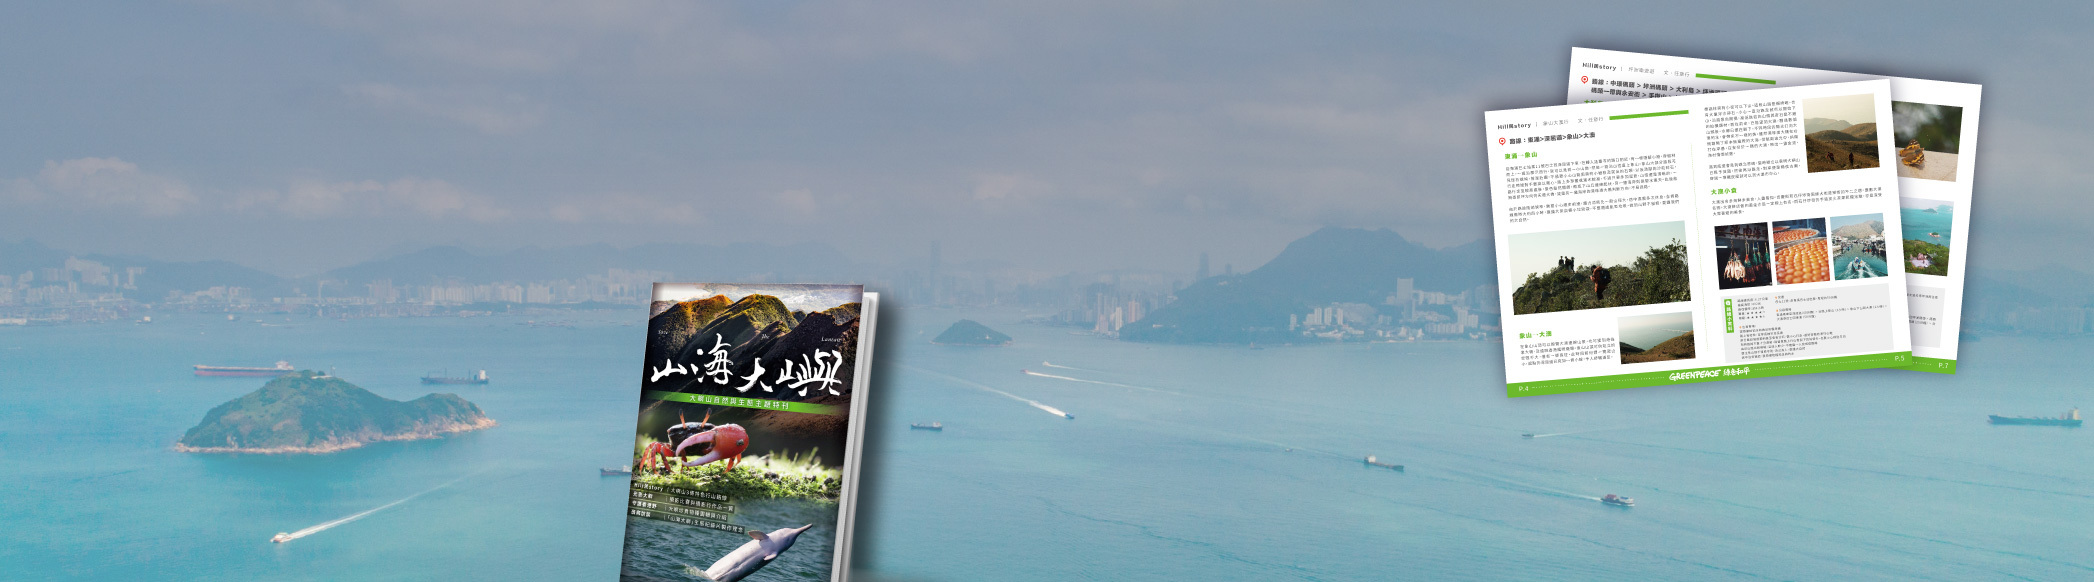
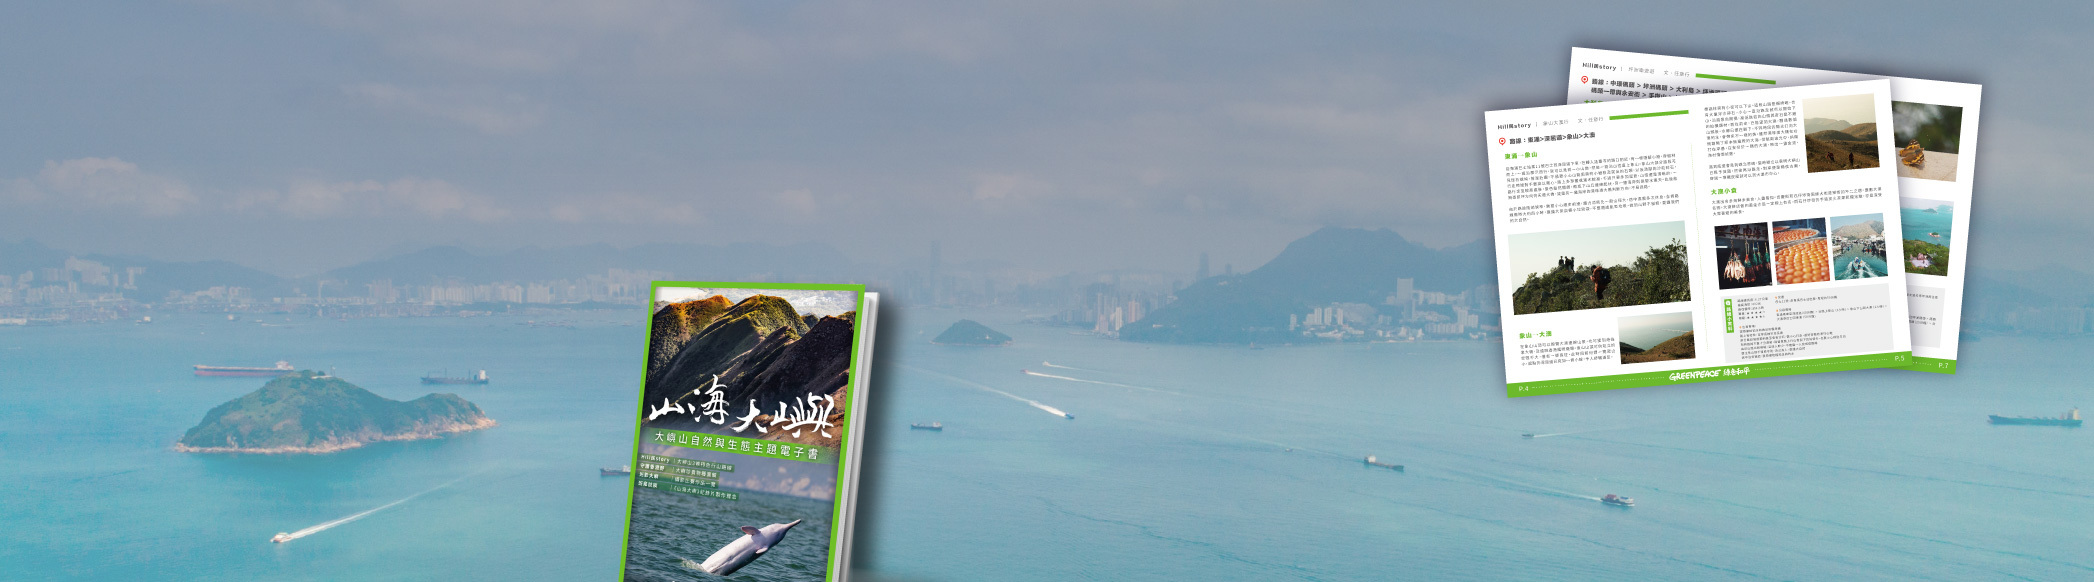
modify project: lantau-ebook and elm
1. update lantau-ebook pictures
2. update elm picture and content

Changed region(s): [[0.2794, 0.4639, 0.4346, 1.0]]

diff --git a/apps/hk/elm/Thankyou.js b/apps/hk/elm/Thankyou.js
@@ -6,7 +6,7 @@ import {
   paragraphProps,
 } from '@common/styles/components/contentStyle';
 
-import image01 from './images/eco-gif.gif';
+import image01 from './images/elm_desk_calendar.png';
 
 const Thankyou = ({ theme, signup }) => {
   const themeInterests = theme.interests;
@@ -62,12 +62,10 @@ const Thankyou = ({ theme, signup }) => {
         向香港自然環境伸出援手，捐助綠色和平守護大嶼工作。
       </Text>
 
-      <Heading {...headingProps}>
-        捐款守護香港自然環境，即送您一副「生態保衛隊」桌上遊戲！
-      </Heading>
+      <Heading {...headingProps}>堅持發聲 行動帶來改變</Heading>
 
       <Text as="p" {...paragraphProps}>
-        現以每月$200或以上捐款，推動政府善用棕地，守護香港自然環境，您將獲得一副「生態保衛隊」桌上遊戲，並資助低收入家庭學生參與生態導賞團！
+        現以每月$150捐款支持守護大嶼工作，即可欣賞將於5月底發行的《山海大嶼》生態紀錄片，並獲贈一本《山海大嶼年曆》！
       </Text>
 
       <Box as="p" {...paragraphProps}>

diff --git a/apps/hk/elm/index.js b/apps/hk/elm/index.js
@@ -54,7 +54,7 @@ function Index({ status, theme, setFormContent, signup }) {
                 FirstName ? FirstName : '綠色和平支持者'
               }，感謝您加入守護大嶼行列！`,
               description: [
-                '現以每月$200或以上捐款，推動政府善用棕地，守護香港自然環境，您將獲得一副「生態保衛隊」桌上遊戲，並資助低收入家庭學生參與生態導賞團！',
+                '現以每月$150捐款支持守護大嶼工作，即可欣賞將於5月底發行的《山海大嶼》生態紀錄片，並獲贈一本《山海大嶼年曆》！',
               ],
             }}
             // removeMask="true"

diff --git a/apps/hk/lantau-ebook/SEO.js b/apps/hk/lantau-ebook/SEO.js
@@ -36,7 +36,7 @@ const SEO = () => {
       />
       <meta
         property="og:image"
-        content="https://www.greenpeace.org/static/planet4-hongkong-stateless/2022/04/c079568d-202205-lantau-booklet-kv-fb-preview.jpg"
+        content="https://www.greenpeace.org/static/planet4-hongkong-stateless/2022/05/675b5db0-202205-lantau-booklet-kv-fb-preview.jpg"
       />
     </Head>
   );

diff --git a/apps/hk/lantau-ebook/components/HeroSection/Thankyou.js b/apps/hk/lantau-ebook/components/HeroSection/Thankyou.js
@@ -47,7 +47,7 @@ function Content({ signup }) {
           textShadow="0 0 1px rgba(0,0,0, .2)"
           mb={4}
           dangerouslySetInnerHTML={{
-            __html: `${FirstName}，<br/>感謝您下載<br/>山海大嶼特刊`,
+            __html: `${FirstName}，<br/>感謝您下載<br/>山海大嶼電子書`,
           }}
         />
       </Box>

diff --git a/apps/hk/lantau-ebook/components/HeroSection/Content.js b/apps/hk/lantau-ebook/components/HeroSection/Content.js
@@ -46,7 +46,7 @@ function Content({ children }) {
           textShadow="0 0 1px rgba(0,0,0, .2)"
           mb={4}
           dangerouslySetInnerHTML={{
-            __html: '請即下載<br/>《山海大嶼》<br/>大嶼山主題電子書',
+            __html: '請即下載<br/>山海大嶼電子書',
           }}
         />
       </Box>
